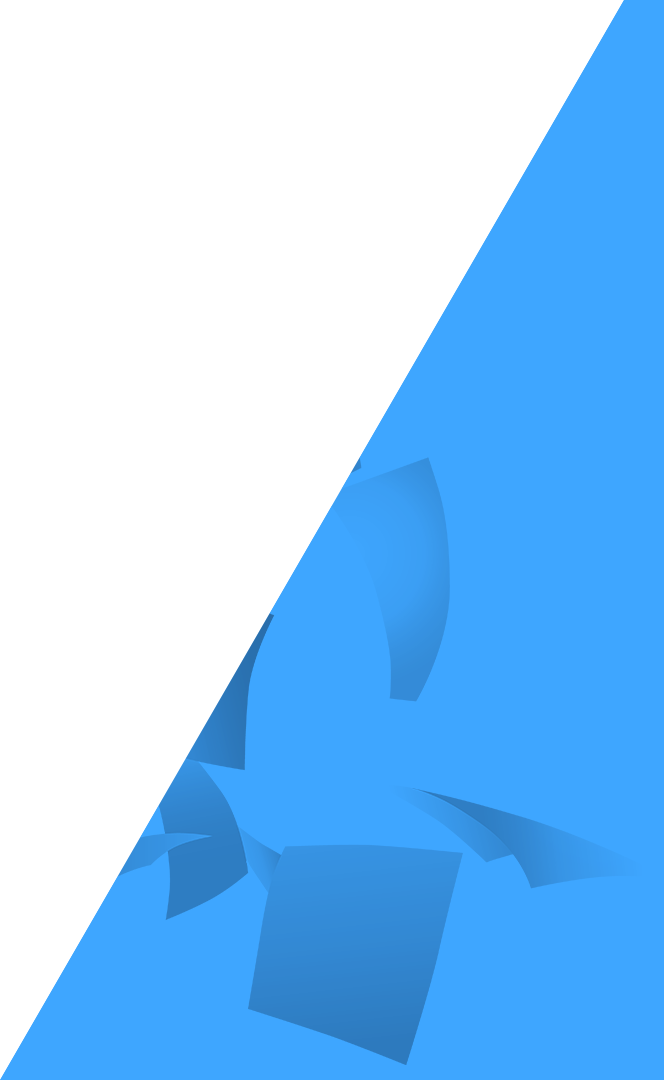
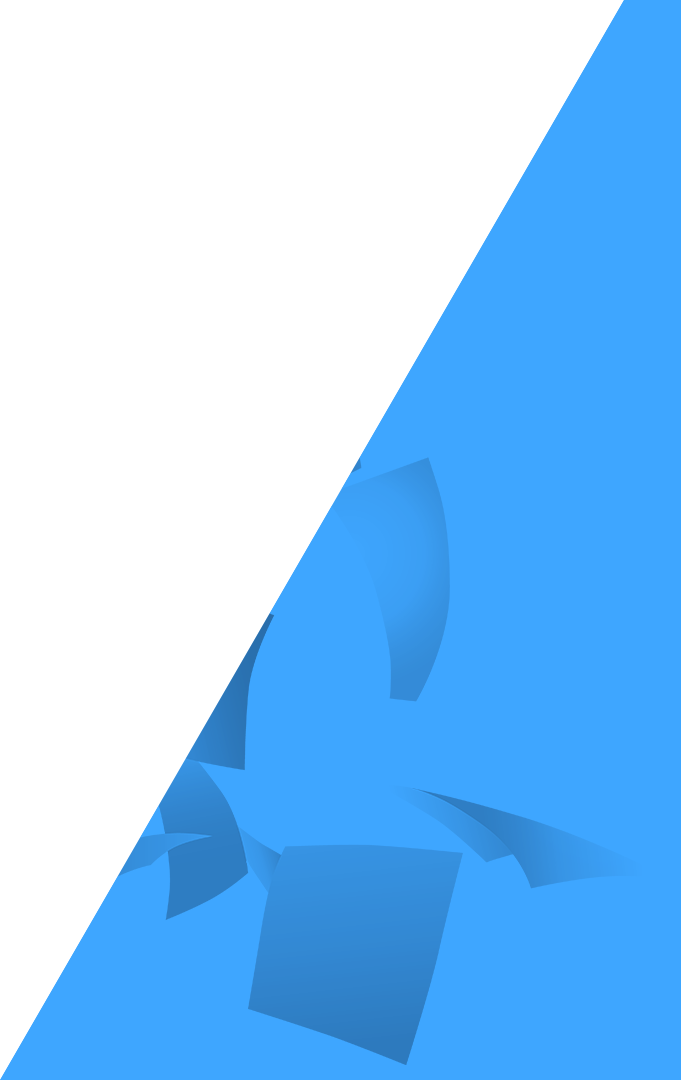
border

diff --git a/web/css/main.css b/web/css/main.css
@@ -297,10 +297,10 @@ h3 {
 
 }
 .projector {
-	width: 580px;
-	height: 580px;
-	left: -680px;
-	top: -680px;
+	width: 500px;
+	height: 500px;
+	left: -600px;
+	top: -600px;
 	position: absolute;
     border-radius:50%;
     overflow:hidden;
@@ -353,31 +353,30 @@ h3 {
 }
 
 .border-triangle:before {
-    border-left: 57vmin solid transparent;
-    border-bottom: 118vmin solid #3ea6ff;
+    border-left: 551px solid transparent;
+    border-bottom: 980px solid #3ea6ff;
     height: auto;
     padding: 0;
     width: 10px;
     position:absolute;
     content:"";
-    left:-57vmin;
+    left:-551px;
     top: 0;
 }
 .border-triangle-blue-img:before {
     border-bottom-color: #3ea6ff;
-    border-right: 57vmin solid transparent;
+    border-right: 551px solid transparent;
 }
 .border-triangle-blue-img:after  {
     background-image: url(../images/informal-bg-bottom.png);
 	background-repeat: no-repeat;
-	background-position:0 0;
-    height: 1080px;
+	background-position:bottom left;
+    height: 100%;
     width: 664px;
     position:absolute;
     content:"";
-	left: -54.2vmin;
+	left: -575px;
     bottom: 0;
-    transform: rotate(-4grad);
 }
 .border-triangle-blue:before {
 	border-bottom-color: #3ea6ff;
@@ -391,22 +390,25 @@ h3 {
 .border-triangle-red:before{
 	border-bottom-color: #ff6969;
 }
-@media screen and (max-height: 968px) {
-
-	.border-triangle-blue-img:after  {
-	    background-image: none;
-	}
-
-}
 
 @media screen and (max-width: 1100px) {
 
 	.projector {
 		display:none;
 	}
-	.border-triangle:before{
-		border-bottom-width:300vmin;
+	.border-triangle:before {
+	    border-bottom-width: 2400px;
+	}	
+	.border-triangle-blue-img:after  {
+	    background-image: none;
 	}
+
+}
+@media screen and (max-height: 1100px) {
+
+	.border-triangle:before {
+	    border-bottom-width: 2400px;
+	}	
 
 }
 @media screen and (max-height: 800px) {
@@ -414,13 +416,6 @@ h3 {
 	.projector {
 		display:none;
 	}
-	.border-triangle-blue-img:after  {
-	    background-image: none;
-	}
-
-}
-@media screen and (max-height: 1280px) {
-
 	.border-triangle-blue-img:after  {
 	    background-image: none;
 	}
@@ -903,7 +898,7 @@ fieldset[disabled] .btn {
 @media only screen and (max-width:1100px) {
 
 	.txt-lear-more {
-		max-width: 37vmin;
+		max-width: 25vmin;
 		padding: 6.2vmin 3.5vmin 2.2vmin;
 		left: 0;
 	}
